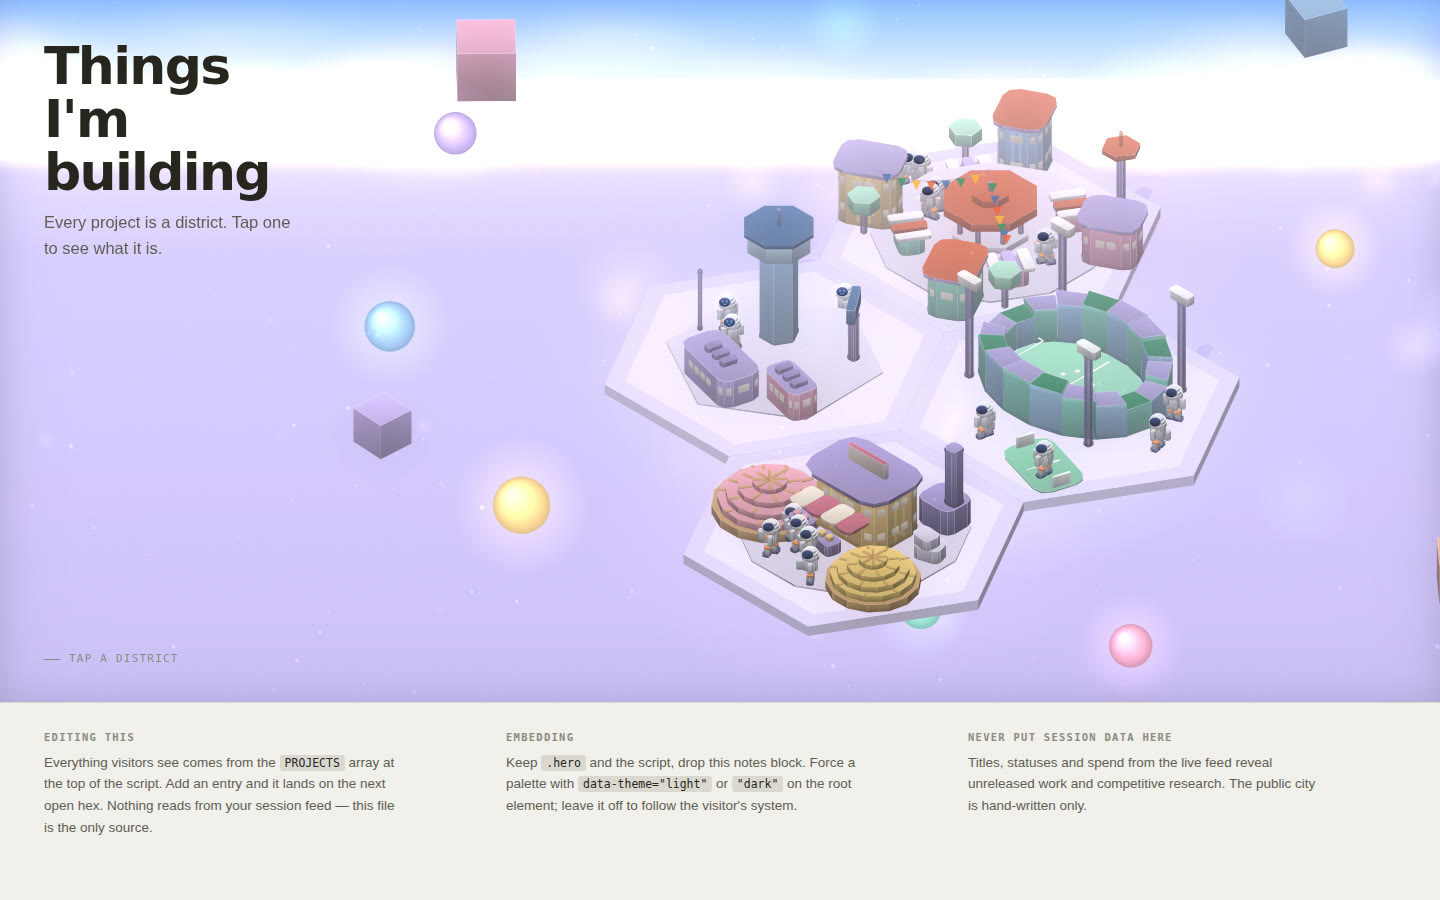
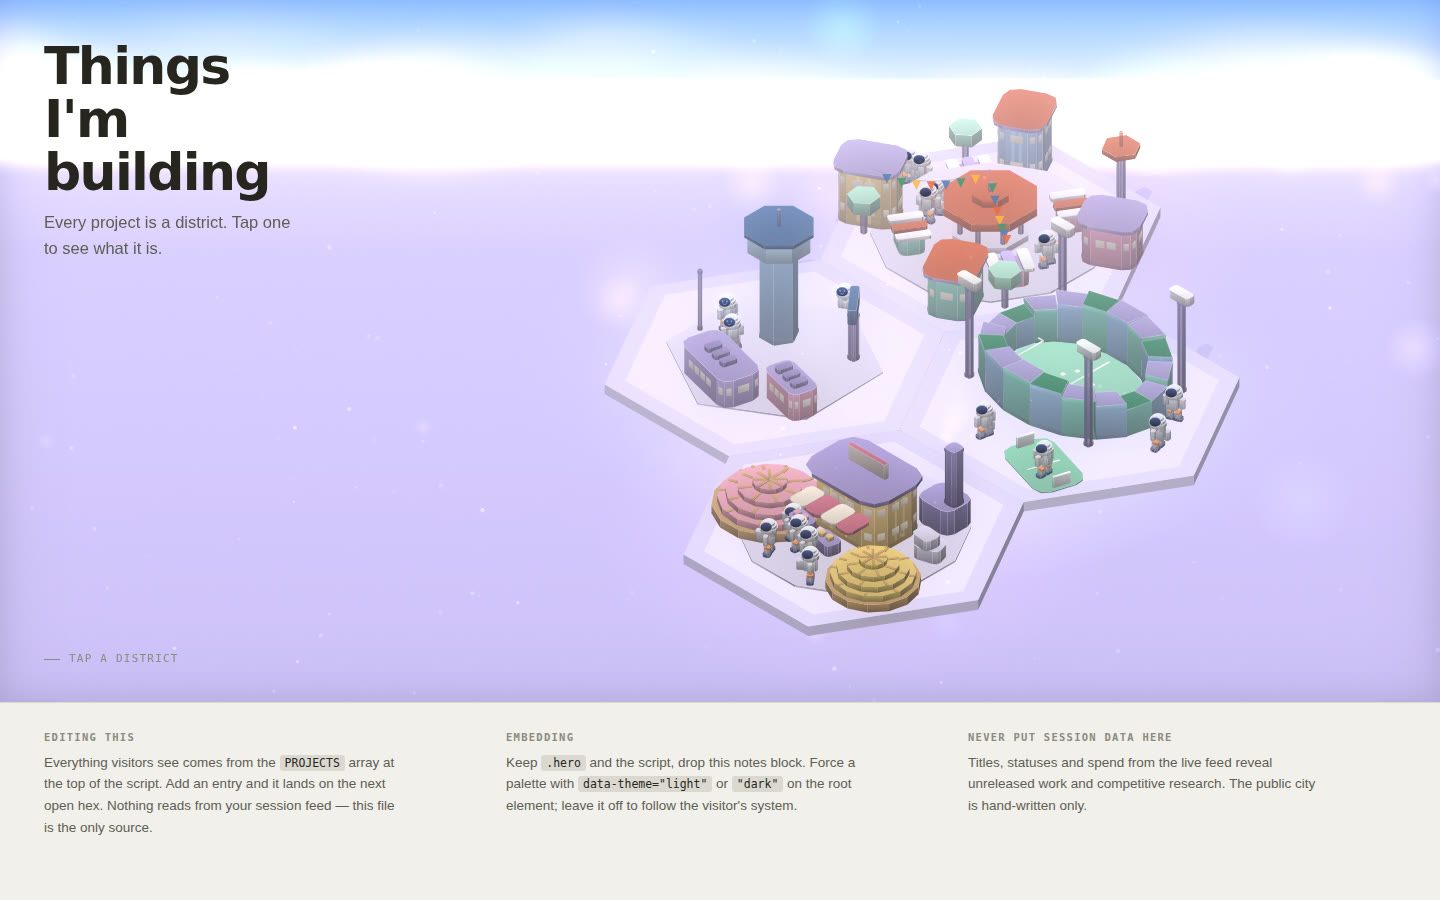
Take the floating cubes and orbs out of the sky
The sky keeps the horizon, moons, stars, cloud bank, dust and light pools.
Nothing hangs in the air over the city. prism() loses the plain flag it
only needed for the floating cubes. Style board, README and captures
updated to match.

Claude-Session: https://claude.ai/code/session_01EzCXEY1mYLNHe718P8tvPq

diff --git a/docs/style-board.html b/docs/style-board.html
@@ -115,21 +115,21 @@
 
   <section id="after">
     <h2>What changed</h2>
-    <p class="sub">Before, a flat purple disc filled the frame and the sky was a strip along the top edge. Now there is a horizon, two moons, drifting scenery, and a dark floor that the districts glow onto.</p>
+    <p class="sub">Before, a flat purple disc filled the frame and the sky was a strip along the top edge. Now there is a horizon, two moons, a cloud bank, and a dark floor that the districts glow onto.</p>
     <div class="pair">
       <figure class="shot"><img src="refs/metropolis-before.jpg" alt="The wall display before: districts on a huge flat purple disc, sky visible only at the top edge"><figcaption><b>Before</b><span>Ground disc radius 12.5, one gradient, 150 stars</span></figcaption></figure>
-      <figure class="shot lead"><img src="refs/metropolis-after.jpg" alt="The wall display after: districts on a dark floor under a night sky with a pink moon, floating pastel cubes and orbs"><figcaption><b>After</b><span>Horizon, moons, floaters, orbs, dust, light pools</span></figcaption></figure>
+      <figure class="shot lead"><img src="refs/metropolis-after.jpg" alt="The wall display after: districts on a dark floor under a night sky with a pink moon, floating pastel cubes and orbs"><figcaption><b>After</b><span>Horizon, moons, clouds, dust, light pools</span></figcaption></figure>
     </div>
     <div class="trio">
       <figure class="shot"><img src="refs/hero-before.jpg" alt="Website hero before, same flat disc"><figcaption><b>Hero before</b></figcaption></figure>
       <figure class="shot"><img src="refs/hero-night.jpg" alt="Website hero after dark: the big moon sits behind the city, clear of the title"><figcaption><b>Hero, night</b><span>moon behind the city</span></figcaption></figure>
-      <figure class="shot"><img src="refs/hero-day.jpg" alt="Website hero by day: blue zenith, pale horizon, lilac floor, one small pale moon"><figcaption><b>Hero, day</b><span>same scenery, no stars</span></figcaption></figure>
+      <figure class="shot"><img src="refs/hero-day.jpg" alt="Website hero by day: blue zenith, pale horizon, lilac floor, one small pale moon"><figcaption><b>Hero, day</b><span>same sky, no stars</span></figcaption></figure>
     </div>
   </section>
 
   <section id="references">
     <h2>The stills that set the look</h2>
-    <p class="sub">Three ideas repeat in all of them: pastel cubes as architecture, a sky with bodies in it, and tiny inhabitants that make the blocks read as huge.</p>
+    <p class="sub">Three ideas repeat in all of them: pastel cubes as architecture, a sky with bodies in it, and tiny inhabitants that make the blocks read as huge. The floating cubes and orbs in the stills were tried and rejected; the sky keeps only the moons, stars and clouds.</p>
     <div class="refs">
       <figure class="ref"><img src="refs/ref-night-plaza.jpg" alt="" onerror="this.parentElement.classList.add('missing')"><div class="slot"><div><code>docs/refs/ref-night-plaza.jpg</code><span>save the still here and it appears</span></div></div><figcaption><b>Night plaza</b>Six pastel cubes on a dark mirror floor. Big pink moon top-left, small yellow moon right, sparkle dust, candy and donuts on the ground, figurines standing on the cubes.</figcaption></figure>
       <figure class="ref"><img src="refs/ref-canyon-road.jpg" alt="" onerror="this.parentElement.classList.add('missing')"><div class="slot"><div><code>docs/refs/ref-canyon-road.jpg</code><span>save the still here and it appears</span></div></div><figcaption><b>Canyon road</b>The daytime variant. Lilac sky, cumulus, stone cubes floating overhead, pastel orbs on poles, ring pads along a road, one small figure on the centre line.</figcaption></figure>
@@ -145,7 +145,7 @@
 
   <section id="palette">
     <h2>Two darks, six pastels</h2>
-    <p class="sub">The darks are ground and sky. The pastels are only ever emitted light: walls, moons, orbs, floaters. Nothing is painted pastel and then lit. These are the night palette values in <code>PALETTES.night</code>.</p>
+    <p class="sub">The darks are ground and sky. The pastels are only ever emitted light: walls, moons, the horizon glow. Nothing is painted pastel and then lit. These are the night palette values in <code>PALETTES.night</code>.</p>
     <div class="swatches">
       <div class="sw"><i style="background:#06051a"></i><b>Zenith</b><code>#06051A</code><small>skyTop</small></div>
       <div class="sw"><i style="background:#1a1140"></i><b>Sky</b><code>#1A1140</code><small>skyMid</small></div>
@@ -172,11 +172,9 @@
       <div><dt>Moons</dt><dd>Two, never the same size, from <code>P.moons</code>: a big pink one with four faint maria and a small butter one. Each has an additive halo. They are drawn before the floor so they can set behind it.</dd></div>
       <div><dt>Glow band</dt><dd>An additive pink band centred on the horizon, 16% of the height above it and 14% below, peaking at 22% opacity. It is what softens the line and lights the floor near the edge.</dd></div>
       <div><dt>Clouds</dt><dd>Three bands of flattened radial blobs hugging the horizon from above, at 16 to 46% opacity, drifting slowly. Thin enough that the moon still reads through them.</dd></div>
-      <div><dt>Floaters</dt><dd>Six plain cubes from <code>FLOATERS</code>, placed in world space relative to the city centre so they frame it at any viewport. They use the wall colours, so at night they glow and get halos like everything lit from within. <code>plain: true</code> keeps the cornice and pilasters off them.</dd></div>
-      <div><dt>Orbs</dt><dd>Ten pastel spheres in a ring six to twelve units out, one to five units up, with an offset highlight and an additive halo. They bob on their own phase.</dd></div>
       <div><dt>Ground</dt><dd>One elliptical pool, radius 8.4, solid to 58% then fading to transparent over the far floor. Under it, each district lays its accent on the floor at 20% opacity, additive.<span class="why">Fading the pool is what removed the disc edge that used to cut the frame in half.</span></dd></div>
       <div><dt>Dust</dt><dd>170 pastel points drifting upward through the whole frame, drawn after the solids so they sit in the air in front of the city. Off in the day palette apart from a trace.</dd></div>
-      <div><dt>Day</dt><dd>Same code, different keys. Blue zenith, pale horizon at 28% glow, lilac far floor, one small pale moon, no stars, orbs and dust turned down.</dd></div>
+      <div><dt>Day</dt><dd>Same code, different keys. Blue zenith, pale horizon at 28% glow, lilac far floor, one small pale moon, no stars, dust turned down.</dd></div>
     </dl>
   </section>
 
@@ -198,9 +196,9 @@
     <p class="sub">Use with the three stills as a moodboard. It names the same rules the renderer follows, so new frames stay on the board.</p>
     <div class="promptbox">
       <button class="copy" type="button" id="copyBtn">COPY</button>
-      <pre id="promptText">Miniature pastel city at night made of glowing translucent sugar-cube blocks in pink, mint, butter yellow, ice blue and lilac, arranged on a dark slightly reflective floor. Tiny toy astronaut figurines walk between the blocks. Night sky with a large soft pink moon upper left and a small yellow moon on the right, scattered stars, floating pastel spheres and slowly tumbling cubes, a thin band of lilac clouds at the horizon, drifting sparkle dust. Each block emits its own colour with a pool of light beneath it. Matte tactile textures, cinematic wide shot, 21:9, shallow depth of field, stop-motion diorama feel.</pre>
+      <pre id="promptText">Miniature pastel city at night made of glowing translucent sugar-cube blocks in pink, mint, butter yellow, ice blue and lilac, arranged on a dark slightly reflective floor. Tiny toy astronaut figurines walk between the blocks. Night sky with a large soft pink moon upper left and a small yellow moon on the right, scattered stars, a thin band of lilac clouds at the horizon, drifting sparkle dust. Nothing floating in the air. Each block emits its own colour with a pool of light beneath it. Matte tactile textures, cinematic wide shot, 21:9, shallow depth of field, stop-motion diorama feel.</pre>
     </div>
-    <p class="note">Negative direction: no neon signage, no chrome, no photoreal humans, no single-colour rim light, no black void behind the city.</p>
+    <p class="note">Negative direction: no floating cubes or spheres, no neon signage, no chrome, no photoreal humans, no single-colour rim light, no black void behind the city.</p>
   </section>
 </div>
 

diff --git a/prototypes/hero.html b/prototypes/hero.html
@@ -265,7 +265,7 @@
       horizon: "#f6ecf4", horizonGlow: "255,236,244", horizonAmt: .28,
       floorFar: "#b6aed6", floorDeep: "#a99fcd", groundFade: "rgba(182,174,214,0)",
       moons: [{ x: .80, y: .20, r: .05, c: "#fffdf3", hi: "#ffffff", lo: "#e9e2d4", halo: "255,250,235", glow: .35 }],
-      dustAlpha: .15, orbGlow: .3, poolAmt: .4
+      dustAlpha: .15, poolAmt: .4
     },
     night: {
       night: true, emissiveWalls: true, bloom: [.30, .15], starAlpha: 1, bokehAlpha: 1,
@@ -283,7 +283,7 @@
       floorFar: "#120d2c", floorDeep: "#07061a", groundFade: "rgba(18,13,44,0)",
       moons: [{ x: .58, y: .17, r: .13, c: "#ffa7e0", hi: "#ffd8f1", lo: "#e07cc0", halo: "255,167,224", glow: 1, spots: true },
               { x: .80, y: .30, r: .045, c: "#fff2a0", hi: "#fffbd6", lo: "#e9d070", halo: "255,242,160", glow: .8 }],
-      dustAlpha: .8, orbGlow: 1, poolAmt: 1
+      dustAlpha: .8, poolAmt: 1
     }
   };
   // the city keeps the viewer's hours: lit by day, glowing after dark
@@ -447,7 +447,7 @@
       if (nn[0] + nn[2] <= 0) continue;
       face([[a[0], y0, a[1]], [b[0], y0, b[1]], [b[0], y0 + h, b[1]], [a[0], y0 + h, a[1]]],
            shade(rgb, nn), shade(dim(rgb, lit ? .80 : .62), nn));
-      if (h > .62 && !opt.plain) {                 // base course and cornice
+      if (h > .62) {                               // base course and cornice
         const e = .012;
         const ax = a[0] + nn[0] * e, az = a[1] + nn[2] * e;
         const bx2 = b[0] + nn[0] * e, bz2 = b[1] + nn[2] * e;
@@ -457,7 +457,7 @@
              shade(dim(rgb, 1.14), nn), shade(dim(rgb, .92), nn));
       }
       const edgeLen = Math.hypot(b[0] - a[0], b[1] - a[1]);
-      if (h > .95 && edgeLen > .34 && !opt.plain) { // pilasters break up a blank wall
+      if (h > .95 && edgeLen > .34) {              // pilasters break up a blank wall
         const e2 = .010;
         for (let k = 1; k <= 2; k++) {
           const u = k / 3, hw2 = .026 / edgeLen;
@@ -1110,46 +1110,6 @@
     });
   }
 
-  // Scenery in the sky: tumbling sugar cubes and pastel orbs, placed relative to the
-  // city centre so they frame it at any viewport. They carry no data.
-  const FLOATERS = [
-    [-8.25, 2.25, 3.5, 1.0, 0], [1.35, -8.15, 3.8, .8, 3], [6.9, -7.1, 2.5, .9, 1],
-    [-3.6, 9.4, 1.6, .7, 4], [-3.0, -6.8, 4.2, .6, 2], [12.05, -.95, 1.2, .8, 5]
-  ].map((s, i) => ({ ox: s[0], oz: s[1], y: s[2], s: s[3], c: s[4], ph: i * 1.7,
-                     sp: .22 + (i % 3) * .09, rot: i * .8, rsp: (i % 2 ? 1 : -1) * (.05 + (i % 3) * .02) }));
-  const ORBS = (() => {
-    const rand = rng(303), a = [];
-    for (let i = 0; i < 10; i++) {
-      const ang = i / 10 * Math.PI * 2 + rand() * .5, d = 6.5 + rand() * 6;
-      a.push({ ox: Math.cos(ang) * d, oz: Math.sin(ang) * d, y: 1.2 + rand() * 3.6, r: .28 + rand() * .34,
-               c: i % 6, ph: rand() * 6.28, sp: .3 + rand() * .3 });
-    }
-    return a;
-  })();
-  function drawSkyScenery(t, gx, gz) {
-    fogK = .55;                                        // they sit far behind the city
-    FLOATERS.forEach(f => {
-      const yy = f.y + (reduced ? 0 : Math.sin(t * f.sp + f.ph) * .3);
-      box(gx + f.ox, gz + f.oz, f.s, f.s, yy, f.s, P.walls[f.c],
-          { rot: f.rot + (reduced ? 0 : t * f.rsp), top: P.walls[f.c], sharp: true, plain: true });
-    });
-    fogK = 0;
-    ORBS.forEach(o => {
-      const yy = o.y + (reduced ? 0 : Math.sin(t * o.sp + o.ph) * .25);
-      const s = px(gx + o.ox, yy, gz + o.oz), r = o.r * cam.s, col = hx(P.walls[o.c]);
-      ctx.save(); ctx.globalCompositeOperation = "lighter";
-      const halo = ctx.createRadialGradient(s[0], s[1], r * .5, s[0], s[1], r * 2.4);
-      halo.addColorStop(0, `rgba(${col},${.35 * P.orbGlow})`); halo.addColorStop(1, `rgba(${col},0)`);
-      ctx.fillStyle = halo; ctx.beginPath(); ctx.arc(s[0], s[1], r * 2.4, 0, Math.PI * 2); ctx.fill();
-      ctx.restore();
-      const body = ctx.createRadialGradient(s[0] - r * .35, s[1] - r * .4, r * .05, s[0], s[1], r);
-      body.addColorStop(0, `rgb(${col.map(v => Math.min(255, v + 70))})`);
-      body.addColorStop(.55, `rgb(${col})`);
-      body.addColorStop(1, `rgb(${col.map(v => (v * .72) | 0)})`);
-      ctx.fillStyle = body; ctx.beginPath(); ctx.arc(s[0], s[1], r, 0, Math.PI * 2); ctx.fill();
-    });
-  }
-
   // sparkle dust drifting up through the whole frame
   const DUST = (() => {
     const rand = rng(909), a = [], hue = ["255,190,225", "170,225,255", "200,180,255", "190,255,220", "255,240,180"];
@@ -1306,7 +1266,6 @@
     ctx.restore();
 
     drawClouds(t, HZ);
-    drawSkyScenery(t, gx, gz);
 
     // --- ground: a dark pool under the city that fades into the far floor ---
     ctx.save(); ctx.translate(gc[0], gc[1]); ctx.scale(1, IY / IX);

diff --git a/prototypes/metropolis.html b/prototypes/metropolis.html
@@ -270,7 +270,7 @@
       horizon: "#f6ecf4", horizonGlow: "255,236,244", horizonAmt: .28,
       floorFar: "#b6aed6", floorDeep: "#a99fcd", groundFade: "rgba(182,174,214,0)",
       moons: [{ x: .80, y: .20, r: .05, c: "#fffdf3", hi: "#ffffff", lo: "#e9e2d4", halo: "255,250,235", glow: .35 }],
-      dustAlpha: .15, orbGlow: .3, poolAmt: .4
+      dustAlpha: .15, poolAmt: .4
     },
     night: {
       night: true, emissiveWalls: true, bloom: [.30, .15], starAlpha: 1, bokehAlpha: 1,
@@ -288,7 +288,7 @@
       floorFar: "#120d2c", floorDeep: "#07061a", groundFade: "rgba(18,13,44,0)",
       moons: [{ x: .15, y: .28, r: .14, c: "#ffa7e0", hi: "#ffd8f1", lo: "#e07cc0", halo: "255,167,224", glow: 1, spots: true },
               { x: .80, y: .30, r: .045, c: "#fff2a0", hi: "#fffbd6", lo: "#e9d070", halo: "255,242,160", glow: .8 }],
-      dustAlpha: .8, orbGlow: 1, poolAmt: 1
+      dustAlpha: .8, poolAmt: 1
     }
   };
   // the city keeps the viewer's hours: lit by day, glowing after dark
@@ -450,7 +450,7 @@
       if (nn[0] + nn[2] <= 0) continue;
       face([[a[0], y0, a[1]], [b[0], y0, b[1]], [b[0], y0 + h, b[1]], [a[0], y0 + h, a[1]]],
            shade(rgb, nn), shade(dim(rgb, lit ? .80 : .62), nn));
-      if (h > .62 && !opt.plain) {                 // base course and cornice
+      if (h > .62) {                               // base course and cornice
         const e = .012;
         const ax = a[0] + nn[0] * e, az = a[1] + nn[2] * e;
         const bx2 = b[0] + nn[0] * e, bz2 = b[1] + nn[2] * e;
@@ -460,7 +460,7 @@
              shade(dim(rgb, 1.14), nn), shade(dim(rgb, .92), nn));
       }
       const edgeLen = Math.hypot(b[0] - a[0], b[1] - a[1]);
-      if (h > .95 && edgeLen > .34 && !opt.plain) { // pilasters break up a blank wall
+      if (h > .95 && edgeLen > .34) {              // pilasters break up a blank wall
         const e2 = .010;
         for (let k = 1; k <= 2; k++) {
           const u = k / 3, hw2 = .026 / edgeLen;
@@ -1113,46 +1113,6 @@
     });
   }
 
-  // Scenery in the sky: tumbling sugar cubes and pastel orbs, placed relative to the
-  // city centre so they frame it at any viewport. They carry no data.
-  const FLOATERS = [
-    [-8.25, 2.25, 3.5, 1.0, 0], [1.35, -8.15, 3.8, .8, 3], [6.9, -7.1, 2.5, .9, 1],
-    [-3.6, 9.4, 1.6, .7, 4], [-3.0, -6.8, 4.2, .6, 2], [12.05, -.95, 1.2, .8, 5]
-  ].map((s, i) => ({ ox: s[0], oz: s[1], y: s[2], s: s[3], c: s[4], ph: i * 1.7,
-                     sp: .22 + (i % 3) * .09, rot: i * .8, rsp: (i % 2 ? 1 : -1) * (.05 + (i % 3) * .02) }));
-  const ORBS = (() => {
-    const rand = rng(303), a = [];
-    for (let i = 0; i < 10; i++) {
-      const ang = i / 10 * Math.PI * 2 + rand() * .5, d = 6.5 + rand() * 6;
-      a.push({ ox: Math.cos(ang) * d, oz: Math.sin(ang) * d, y: 1.2 + rand() * 3.6, r: .28 + rand() * .34,
-               c: i % 6, ph: rand() * 6.28, sp: .3 + rand() * .3 });
-    }
-    return a;
-  })();
-  function drawSkyScenery(t, gx, gz) {
-    fogK = .55;                                        // they sit far behind the city
-    FLOATERS.forEach(f => {
-      const yy = f.y + (reduced ? 0 : Math.sin(t * f.sp + f.ph) * .3);
-      box(gx + f.ox, gz + f.oz, f.s, f.s, yy, f.s, P.walls[f.c],
-          { rot: f.rot + (reduced ? 0 : t * f.rsp), top: P.walls[f.c], sharp: true, plain: true });
-    });
-    fogK = 0;
-    ORBS.forEach(o => {
-      const yy = o.y + (reduced ? 0 : Math.sin(t * o.sp + o.ph) * .25);
-      const s = px(gx + o.ox, yy, gz + o.oz), r = o.r * cam.s, col = hx(P.walls[o.c]);
-      ctx.save(); ctx.globalCompositeOperation = "lighter";
-      const halo = ctx.createRadialGradient(s[0], s[1], r * .5, s[0], s[1], r * 2.4);
-      halo.addColorStop(0, `rgba(${col},${.35 * P.orbGlow})`); halo.addColorStop(1, `rgba(${col},0)`);
-      ctx.fillStyle = halo; ctx.beginPath(); ctx.arc(s[0], s[1], r * 2.4, 0, Math.PI * 2); ctx.fill();
-      ctx.restore();
-      const body = ctx.createRadialGradient(s[0] - r * .35, s[1] - r * .4, r * .05, s[0], s[1], r);
-      body.addColorStop(0, `rgb(${col.map(v => Math.min(255, v + 70))})`);
-      body.addColorStop(.55, `rgb(${col})`);
-      body.addColorStop(1, `rgb(${col.map(v => (v * .72) | 0)})`);
-      ctx.fillStyle = body; ctx.beginPath(); ctx.arc(s[0], s[1], r, 0, Math.PI * 2); ctx.fill();
-    });
-  }
-
   // sparkle dust drifting up through the whole frame
   const DUST = (() => {
     const rand = rng(909), a = [], hue = ["255,190,225", "170,225,255", "200,180,255", "190,255,220", "255,240,180"];
@@ -1309,7 +1269,6 @@
     ctx.restore();
 
     drawClouds(t, HZ);
-    drawSkyScenery(t, gx, gz);
 
     // --- ground: a dark pool under the city that fades into the far floor ---
     ctx.save(); ctx.translate(gc[0], gc[1]); ctx.scale(1, IY / IX);

diff --git a/README.md b/README.md
@@ -47,11 +47,11 @@ are fixed across every township. A new project is a config object, not a modelli
 
 **The sky is part of the engine, not a backdrop colour.** Both renderers draw the same
 sky: a horizon computed from the camera, a gradient that blends into a far floor below it,
-two moons of different sizes, stars, a thin cloud bank on the horizon, plain pastel cubes
-and orbs floating around the city, and sparkle dust. The old ground was a flat disc of
-radius 12.5 that covered most of the frame and hid the sky; it is now a pool of radius 8.4
-that fades into the far floor. Sky scenery carries no data and is placed relative to the
-city centre so it frames the districts at any viewport. See `docs/style-board.html`.
+two moons of different sizes, stars, a thin cloud bank on the horizon, and sparkle dust.
+The old ground was a flat disc of radius 12.5 that covered most of the frame and hid the
+sky; it is now a pool of radius 8.4 that fades into the far floor. Floating cubes and orbs
+from the reference stills were tried and rejected: nothing hangs in the air over the city.
+See `docs/style-board.html`.
 
 **Data comes from the account session feed, not local hooks.** Local hooks only see one
 machine and die when it sleeps. The account feed spans iOS, CLI and cloud.
